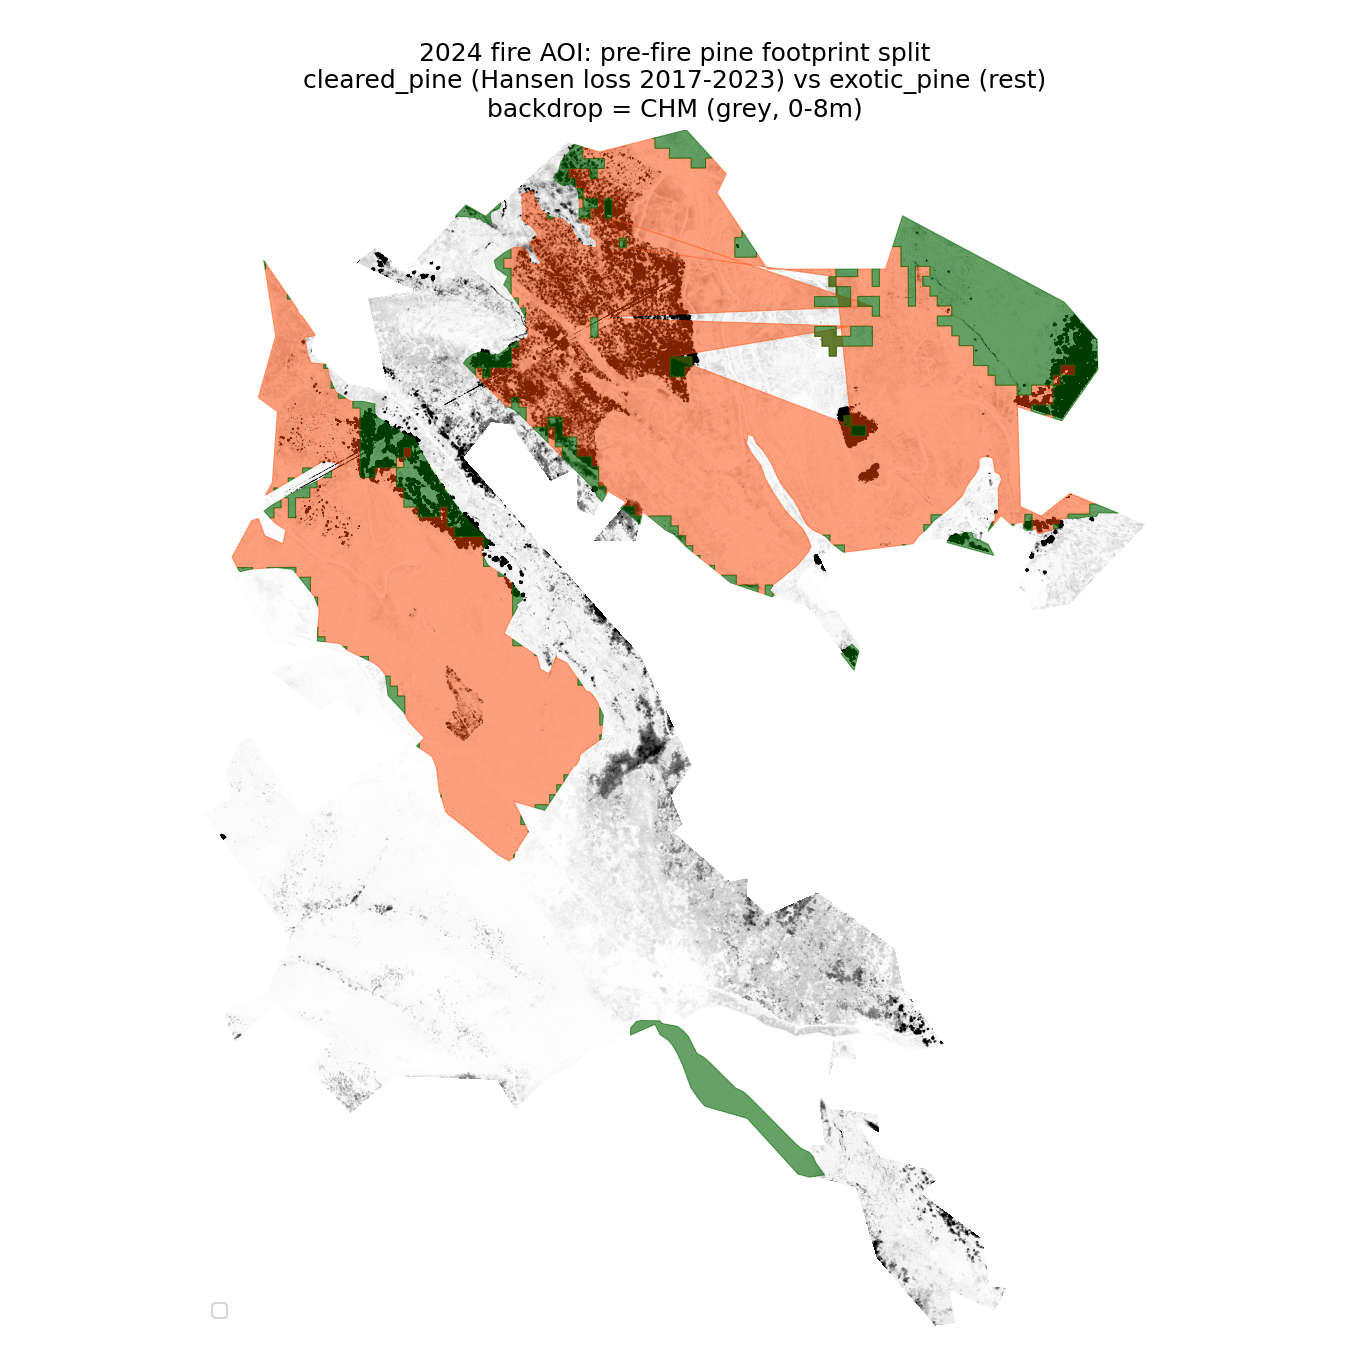
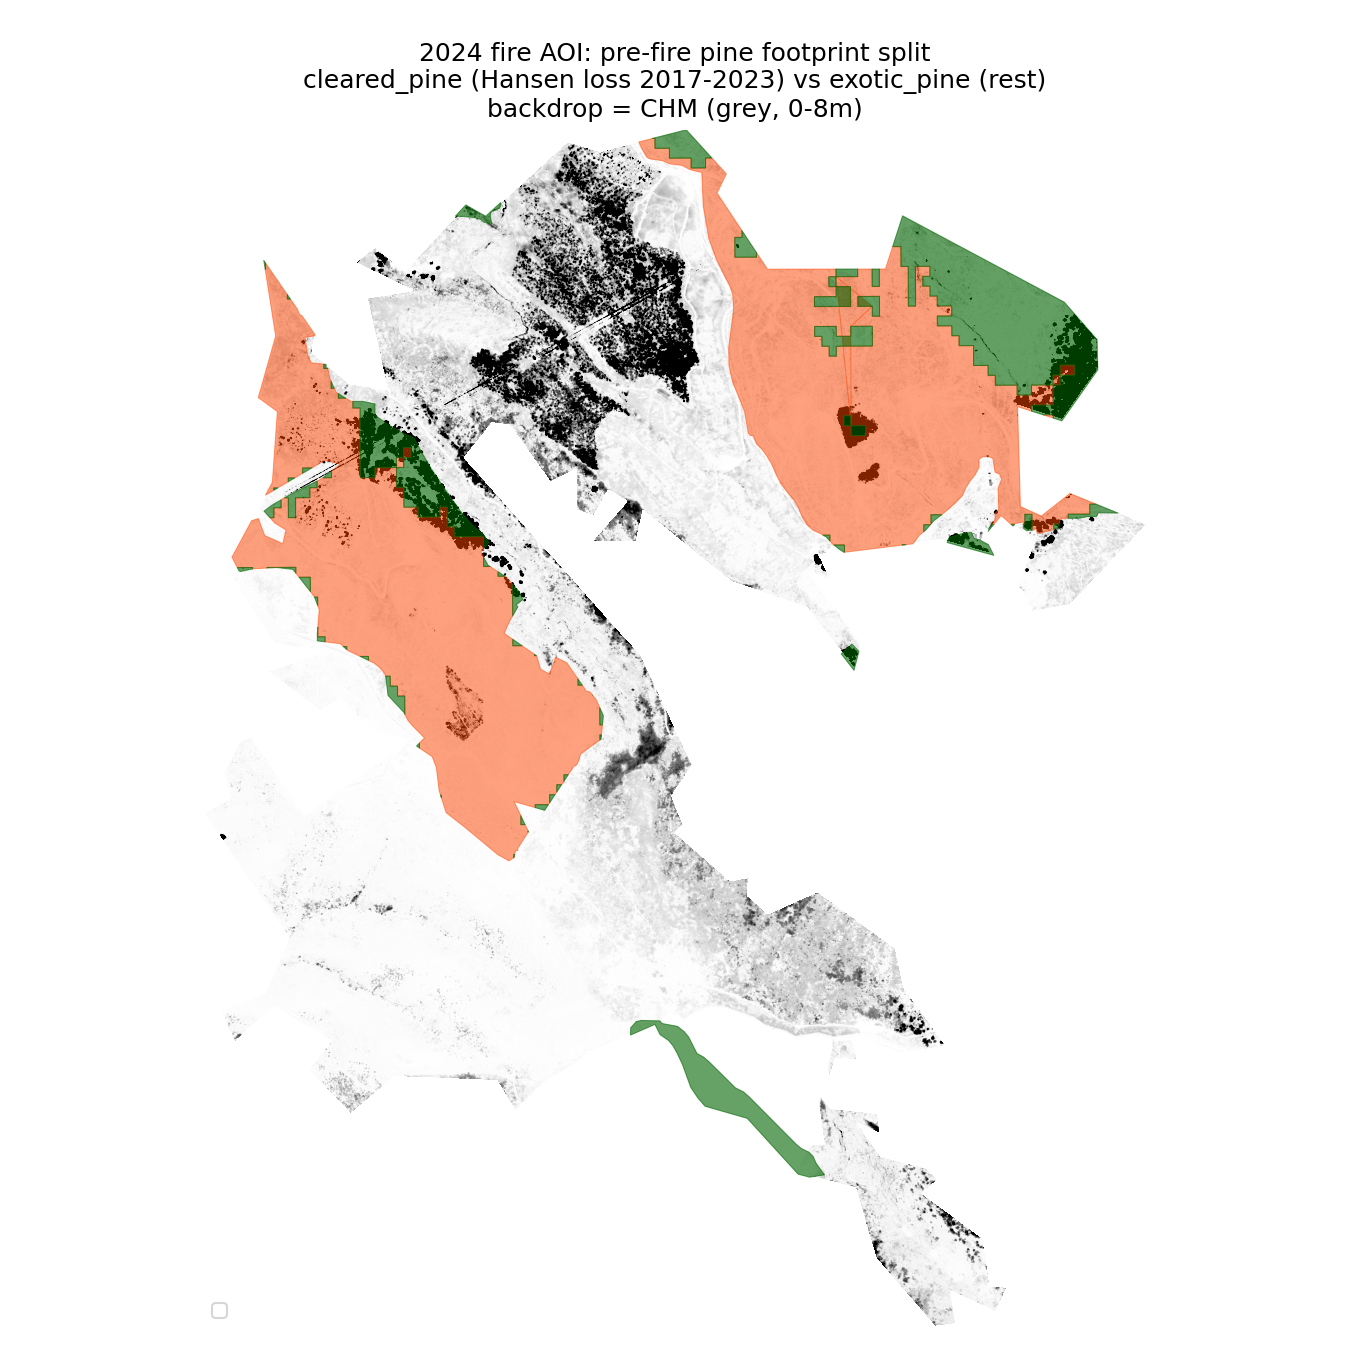
Fix cleared_pine/exotic_pine epoch mismatch; finalize 5-class 2024 scheme
07 used the 2012 pine footprint while the other 3 classes used 2023 labels,
double-counting wherever LCDB had already relabelled former pine to Gorse/
Broom by 2023 (totalled 538ha vs 467ha AOI). Redone consistently on the 2023
epoch: cleared_pine 122.8ha, exotic_pine 31.7ha. Full 5-class scheme (bare_rock
dropped - 09's slope search found only fragmented noise, largest patch 0.18ha,
no coastal-cliff exposure like 2017's AOI) now sums to exactly 467.3ha:
gorse_broom 140.7 / cleared_pine 122.8 / pasture 112.8 / broadleaf_scrub 59.3 /
exotic_pine 31.7.

Changed region(s): [[0.3422, 0.0933, 0.6533, 0.4356]]

diff --git a/2024_materials/scripts/11_fix_cleared_pine_overlap.py b/2024_materials/scripts/11_fix_cleared_pine_overlap.py
@@ -1,0 +1,81 @@
+"""
+Fix: 07_finalize_cleared_pine_2024.py used the 2012 pine footprint (225.5ha)
+for cleared_pine/exotic_pine, while 10_finalize_remaining_classes.py used 2023
+labels for the other 3 classes -> double counting wherever LCDB itself already
+relabelled former pine to Gorse/Broom etc between 2012 and 2023 (total came to
+538.4ha vs AOI 467.3ha). Redo cleared_pine/exotic_pine on the 2023 "Exotic
+Forest + Forest - Harvested" footprint (154.5ha) instead, consistent with the
+other 3 classes, then re-check the totals sum to ~AOI.
+
+Author: Claude (for Yu Zhou), 2026-09-20
+"""
+import json
+import arcpy
+
+arcpy.env.overwriteOutput = True
+wgs84 = arcpy.SpatialReference(4326)
+nztm = arcpy.SpatialReference(2193)
+COORDS_2024 = [[172.60428,-43.61764],[172.60529,-43.61721],[172.60505,-43.61653],[172.60564,-43.61569],[172.60610,-43.61558],[172.60807,-43.61769],[172.61197,-43.61568],[172.61070,-43.61552],[172.60941,-43.61457],[172.60867,-43.61489],[172.60668,-43.61380],[172.60871,-43.61330],[172.60692,-43.61304],[172.60518,-43.61099],[172.60693,-43.60866],[172.60713,-43.60674],[172.60642,-43.60636],[172.60708,-43.60469],[172.60665,-43.60264],[172.60855,-43.60466],[172.60844,-43.60515],[172.60982,-43.60600],[172.61121,-43.60618],[172.61047,-43.60368],[172.61218,-43.60349],[172.61001,-43.60273],[172.61079,-43.60230],[172.61191,-43.60294],[172.61420,-43.60116],[172.61494,-43.60147],[172.61798,-43.59947],[172.61921,-43.59974],[172.62244,-43.59915],[172.62393,-43.60035],[172.62358,-43.60087],[172.62545,-43.60294],[172.62985,-43.60295],[172.63050,-43.60151],[172.63652,-43.60387],[172.63774,-43.60489],[172.63776,-43.60571],[172.63641,-43.60709],[172.63476,-43.60670],[172.63485,-43.60941],[172.63563,-43.60967],[172.63670,-43.60906],[172.63957,-43.60992],[172.63668,-43.61210],[172.63523,-43.61228],[172.63466,-43.61155],[172.63531,-43.61042],[172.63413,-43.60965],[172.63349,-43.61021],[172.63385,-43.61073],[172.63183,-43.61032],[172.62732,-43.61071],[172.62778,-43.61144],[172.62691,-43.61119],[172.62889,-43.61307],[172.62861,-43.61383],[172.62682,-43.61214],[172.62402,-43.61144],[172.62075,-43.60950],[172.62049,-43.61034],[172.61881,-43.61032],[172.62013,-43.60924],[172.61946,-43.60894],[172.61893,-43.60963],[172.61825,-43.60948],[172.61825,-43.60837],[172.61729,-43.60873],[172.61578,-43.60716],[172.61514,-43.60710],[172.61410,-43.60803],[172.62064,-43.61339],[172.62257,-43.61640],[172.62178,-43.61724],[172.62221,-43.61801],[172.62192,-43.61823],[172.62394,-43.61953],[172.62463,-43.61944],[172.62457,-43.61992],[172.62534,-43.62044],[172.62719,-43.61983],[172.63010,-43.62138],[172.63040,-43.62245],[172.63198,-43.62404],[172.63037,-43.62425],[172.62845,-43.62382],[172.62866,-43.62441],[172.62784,-43.62437],[172.62761,-43.62491],[172.62744,-43.62443],[172.62648,-43.62665],[172.62738,-43.62670],[172.62711,-43.62524],[172.62767,-43.62572],[172.62941,-43.62586],[172.62950,-43.62644],[172.62869,-43.62614],[172.62954,-43.62704],[172.63124,-43.62735],[172.63165,-43.62768],[172.63106,-43.62804],[172.63331,-43.62925],[172.63358,-43.63055],[172.63423,-43.63059],[172.63376,-43.63127],[172.63210,-43.63070],[172.63228,-43.63158],[172.63149,-43.63166],[172.62931,-43.62981],[172.62854,-43.62789],[172.62644,-43.62749],[172.62455,-43.62597],[172.62257,-43.62555],[172.62112,-43.62341],[172.61866,-43.62418],[172.61593,-43.62584],[172.61518,-43.62494],[172.61139,-43.62482],[172.60973,-43.62583],[172.60812,-43.62461],[172.60901,-43.62383],[172.60687,-43.62291],[172.60542,-43.62387],[172.60485,-43.62299],[172.60656,-43.62251],[172.60744,-43.62103],[172.60428,-43.61764]]
+array_2024 = arcpy.Array([arcpy.Point(x, y) for x, y in COORDS_2024])
+poly = arcpy.Polygon(array_2024, wgs84).projectAs(nztm)
+arcpy.management.CopyFeatures(poly, "in_memory/aoi2024")
+
+lcdb_path = r"J:\Data\Landcover_Database_v6\lcdb-v60-land-cover-database-version-60-mainland-new-zealand.shp"
+lcdb_clip = "in_memory/lcdb_clip"
+arcpy.analysis.Clip(lcdb_path, "in_memory/aoi2024", lcdb_clip)
+
+# 2023-epoch pine-legacy footprint (consistent with the other 3 classes)
+pine_lyr = arcpy.management.MakeFeatureLayer(lcdb_clip, "pine2023_lyr",
+    where_clause="Name_2023 IN ('Exotic Forest', 'Forest - Harvested')")
+pine_2023_fc = "in_memory/pine_2023"
+arcpy.management.Dissolve(pine_lyr, pine_2023_fc)
+pine_2023_ha = sum(r[0] for r in arcpy.da.SearchCursor(pine_2023_fc, ["SHAPE@AREA"])) / 10000.0
+print(f"2023-epoch pine-legacy footprint (Exotic Forest + Forest-Harvested): {pine_2023_ha:.1f} ha")
+
+geojson_path = r"C:\Users\zhouy3d\Desktop\a3\2024_materials\hansen_loss_2017_2023.geojson"
+with open(geojson_path) as f:
+    gj = json.load(f)
+hansen_fc = "in_memory/hansen_loss"
+arcpy.management.CreateFeatureclass("in_memory", "hansen_loss", "POLYGON", spatial_reference=wgs84)
+with arcpy.da.InsertCursor(hansen_fc, ["SHAPE@"]) as cur:
+    for feat in gj["features"]:
+        geom = feat["geometry"]
+        if geom["type"] != "Polygon":
+            continue
+        array = arcpy.Array()
+        for ring in geom["coordinates"]:
+            array.add(arcpy.Array([arcpy.Point(x, y) for x, y in ring]))
+        cur.insertRow([arcpy.Polygon(array, wgs84)])
+hansen_nztm = "in_memory/hansen_nztm"
+arcpy.management.Project(hansen_fc, hansen_nztm, nztm)
+hansen_dissolved = "in_memory/hansen_dissolved"
+arcpy.management.Dissolve(hansen_nztm, hansen_dissolved)
+
+out_dir = r"C:\Users\zhouy3d\Desktop\a3\2024_materials"
+cleared_pine_fc = f"{out_dir}\\cleared_pine_2024.shp"
+arcpy.analysis.Intersect([pine_2023_fc, hansen_dissolved], "in_memory/cp_multi")
+arcpy.management.Dissolve("in_memory/cp_multi", cleared_pine_fc, multi_part="SINGLE_PART")
+cleared_ha = sum(r[0] for r in arcpy.da.SearchCursor(cleared_pine_fc, ["SHAPE@AREA"])) / 10000.0
+n_blocks = int(arcpy.management.GetCount(cleared_pine_fc)[0])
+print(f"cleared_pine (2023 pine-legacy AND Hansen loss): {cleared_ha:.1f} ha, {n_blocks} parts")
+
+exotic_pine_fc = f"{out_dir}\\exotic_pine_2024.shp"
+arcpy.analysis.Erase(pine_2023_fc, cleared_pine_fc, exotic_pine_fc)
+exotic_ha = sum(r[0] for r in arcpy.da.SearchCursor(exotic_pine_fc, ["SHAPE@AREA"])) / 10000.0
+print(f"exotic_pine (2023 pine-legacy MINUS cleared_pine): {exotic_ha:.1f} ha")
+
+# ---- final totals check across ALL 5 classes, all now on the 2023 epoch ----
+areas = {"cleared_pine": cleared_ha, "exotic_pine": exotic_ha}
+for cls, names in {
+    "gorse_broom":     ["Gorse and/or Broom", "Manuka and/or Kanuka"],
+    "pasture":         ["High Producing Exotic Grassland", "Low Producing Grassland"],
+    "broadleaf_scrub": ["Broadleaved Indigenous Hardwoods"],
+}.items():
+    fc = f"{out_dir}\\{cls}_2024.shp"
+    areas[cls] = sum(r[0] for r in arcpy.da.SearchCursor(fc, ["SHAPE@AREA"])) / 10000.0
+
+total = sum(areas.values())
+print("\n=== Final 2024 class areas (5-class scheme, consistent 2023 epoch) ===")
+for cls, ha in sorted(areas.items(), key=lambda x: -x[1]):
+    print(f"  {cls:18s} {ha:7.1f} ha  ({100*ha/total:4.1f}%)")
+print(f"  {'TOTAL classified':18s} {total:7.1f} ha  (AOI = 467.3 ha, diff = {total-467.3:+.1f} ha)")

diff --git a/2024_materials/scripts/09_bare_rock_candidates.py b/2024_materials/scripts/09_bare_rock_candidates.py
@@ -1,0 +1,81 @@
+"""
+2024 Port Hills fire - bare_rock candidate search, same method as 2017
+(US1.6: slope > 60 deg, connected-component clusters, then check each by hand).
+No aerial photo available for 2024 (checked, not worth chasing - see chat), so
+this can only get to "candidate clusters + CHM cross-check", not the full
+2017-style visual confirmation. Reporting that honestly rather than treating
+these as confirmed bare-rock points.
+
+Author: Claude (for Yu Zhou), 2026-09-20
+"""
+import arcpy
+import numpy as np
+from scipy import ndimage
+
+arcpy.CheckOutExtension("Spatial")
+arcpy.env.overwriteOutput = True
+
+wgs84 = arcpy.SpatialReference(4326)
+nztm = arcpy.SpatialReference(2193)
+COORDS_2024 = [[172.60428,-43.61764],[172.60529,-43.61721],[172.60505,-43.61653],[172.60564,-43.61569],[172.60610,-43.61558],[172.60807,-43.61769],[172.61197,-43.61568],[172.61070,-43.61552],[172.60941,-43.61457],[172.60867,-43.61489],[172.60668,-43.61380],[172.60871,-43.61330],[172.60692,-43.61304],[172.60518,-43.61099],[172.60693,-43.60866],[172.60713,-43.60674],[172.60642,-43.60636],[172.60708,-43.60469],[172.60665,-43.60264],[172.60855,-43.60466],[172.60844,-43.60515],[172.60982,-43.60600],[172.61121,-43.60618],[172.61047,-43.60368],[172.61218,-43.60349],[172.61001,-43.60273],[172.61079,-43.60230],[172.61191,-43.60294],[172.61420,-43.60116],[172.61494,-43.60147],[172.61798,-43.59947],[172.61921,-43.59974],[172.62244,-43.59915],[172.62393,-43.60035],[172.62358,-43.60087],[172.62545,-43.60294],[172.62985,-43.60295],[172.63050,-43.60151],[172.63652,-43.60387],[172.63774,-43.60489],[172.63776,-43.60571],[172.63641,-43.60709],[172.63476,-43.60670],[172.63485,-43.60941],[172.63563,-43.60967],[172.63670,-43.60906],[172.63957,-43.60992],[172.63668,-43.61210],[172.63523,-43.61228],[172.63466,-43.61155],[172.63531,-43.61042],[172.63413,-43.60965],[172.63349,-43.61021],[172.63385,-43.61073],[172.63183,-43.61032],[172.62732,-43.61071],[172.62778,-43.61144],[172.62691,-43.61119],[172.62889,-43.61307],[172.62861,-43.61383],[172.62682,-43.61214],[172.62402,-43.61144],[172.62075,-43.60950],[172.62049,-43.61034],[172.61881,-43.61032],[172.62013,-43.60924],[172.61946,-43.60894],[172.61893,-43.60963],[172.61825,-43.60948],[172.61825,-43.60837],[172.61729,-43.60873],[172.61578,-43.60716],[172.61514,-43.60710],[172.61410,-43.60803],[172.62064,-43.61339],[172.62257,-43.61640],[172.62178,-43.61724],[172.62221,-43.61801],[172.62192,-43.61823],[172.62394,-43.61953],[172.62463,-43.61944],[172.62457,-43.61992],[172.62534,-43.62044],[172.62719,-43.61983],[172.63010,-43.62138],[172.63040,-43.62245],[172.63198,-43.62404],[172.63037,-43.62425],[172.62845,-43.62382],[172.62866,-43.62441],[172.62784,-43.62437],[172.62761,-43.62491],[172.62744,-43.62443],[172.62648,-43.62665],[172.62738,-43.62670],[172.62711,-43.62524],[172.62767,-43.62572],[172.62941,-43.62586],[172.62950,-43.62644],[172.62869,-43.62614],[172.62954,-43.62704],[172.63124,-43.62735],[172.63165,-43.62768],[172.63106,-43.62804],[172.63331,-43.62925],[172.63358,-43.63055],[172.63423,-43.63059],[172.63376,-43.63127],[172.63210,-43.63070],[172.63228,-43.63158],[172.63149,-43.63166],[172.62931,-43.62981],[172.62854,-43.62789],[172.62644,-43.62749],[172.62455,-43.62597],[172.62257,-43.62555],[172.62112,-43.62341],[172.61866,-43.62418],[172.61593,-43.62584],[172.61518,-43.62494],[172.61139,-43.62482],[172.60973,-43.62583],[172.60812,-43.62461],[172.60901,-43.62383],[172.60687,-43.62291],[172.60542,-43.62387],[172.60485,-43.62299],[172.60656,-43.62251],[172.60744,-43.62103],[172.60428,-43.61764]]
+array_2024 = arcpy.Array([arcpy.Point(x, y) for x, y in COORDS_2024])
+poly = arcpy.Polygon(array_2024, wgs84).projectAs(nztm)
+arcpy.management.CopyFeatures(poly, "in_memory/aoi2024")
+
+dem = r"J:\Data\Digital_Elevation_Models\Christchurch_LiDAR_2021-2022\CHC_LiDAR_2020_21_DEM.tif"
+dem_clip = arcpy.sa.ExtractByMask(dem, "in_memory/aoi2024")
+slope = arcpy.sa.Slope(dem_clip, "DEGREE")
+slope_path = r"C:\Users\zhouy3d\Desktop\a3\2024_materials\figures\Slope_2024_AOI.tif"
+slope.save(slope_path)
+
+chm_capped_path = r"C:\Users\zhouy3d\Desktop\a3\2024_materials\figures\CHM_2024_AOI_capped.tif"
+slope_ras = arcpy.Raster(slope_path)
+extent = slope_ras.extent
+cell = slope_ras.meanCellWidth
+
+slope_arr = arcpy.RasterToNumPyArray(slope_ras, nodata_to_value=np.nan)
+chm_arr = arcpy.RasterToNumPyArray(chm_capped_path, nodata_to_value=np.nan)
+# CHM and slope grids may differ by a row/col from independent ExtractByMask calls; crop to common shape
+h = min(slope_arr.shape[0], chm_arr.shape[0]); w = min(slope_arr.shape[1], chm_arr.shape[1])
+slope_arr = slope_arr[:h, :w]; chm_arr = chm_arr[:h, :w]
+
+mask = slope_arr > 60
+labels, n = ndimage.label(mask)
+print(f"Found {n} connected clusters at slope > 60 deg")
+
+results = []
+for i in range(1, n + 1):
+    ys, xs = np.where(labels == i)
+    npix = len(ys)
+    if npix < 4:   # drop single/double-pixel speckle, same spirit as 2017's MIN_PIX filtering
+        continue
+    cy, cx = ys.mean(), xs.mean()
+    # convert array row/col -> map coords (row 0 = top = YMax)
+    map_x = extent.XMin + (cx + 0.5) * cell
+    map_y = extent.YMax - (cy + 0.5) * cell
+    chm_vals = chm_arr[ys, xs]
+    chm_median = np.nanmedian(chm_vals)
+    # shape check: linear features (DEM seams / tracks) have high bbox aspect ratio
+    # and low fill ratio; blobby real outcrops are closer to square/round
+    h_extent = ys.max() - ys.min() + 1
+    w_extent = xs.max() - xs.min() + 1
+    bbox_area = h_extent * w_extent
+    fill_ratio = npix / bbox_area
+    aspect = max(h_extent, w_extent) / max(1, min(h_extent, w_extent))
+    results.append((i, npix, npix * cell * cell / 10000, map_x, map_y, chm_median, aspect, fill_ratio))
+
+results.sort(key=lambda r: -r[1])
+print(f"\n{len(results)} clusters with >=4 pixels:")
+print(f"{'id':>3} {'pix':>5} {'ha':>6} {'NZTM_X':>10} {'NZTM_Y':>10} {'CHM_med':>8} {'aspect':>7} {'fill':>5}  guess")
+for r in results:
+    i, npix, ha, mx, my, chm_med, aspect, fill = r
+    # heuristic: real rock outcrop = blobby (low aspect, higher fill) + near-zero CHM
+    # DEM-seam/track artifact = very linear (high aspect, low fill)
+    guess = "likely_artifact(linear)" if aspect > 4 and fill < 0.35 else "candidate_real"
+    print(f"{i:3d} {npix:5d} {ha:6.3f} {mx:10.1f} {my:10.1f} {chm_med:8.2f} {aspect:7.1f} {fill:5.2f}  {guess}")
+
+print("\nTotal slope>60 area (all clusters incl. <4px speckle):",
+      f"{np.sum(mask)*cell*cell/10000:.2f} ha")
+print("NOTE: no aerial photo available for 2024 to visually confirm these -")
+print("the aspect/fill-ratio heuristic is a proxy, not a substitute for the")
+print("2017 project's actual photo-interpretation pass. Report as candidates only.")

diff --git a/2024_materials/scripts/10_finalize_remaining_classes.py b/2024_materials/scripts/10_finalize_remaining_classes.py
@@ -1,0 +1,55 @@
+"""
+2024 Port Hills fire - finalize the 3 remaining classes (no ambiguity, straight
+LCDB Name_2023 relabel, same grouping logic as 2017's US1.4 table):
+  gorse_broom     <- Gorse and/or Broom + Manuka and/or Kanuka
+  pasture         <- High Producing Exotic Grassland + Low Producing Grassland
+  broadleaf_scrub <- Broadleaved Indigenous Hardwoods
+bare_rock dropped (US1.6-equivalent slope search found no meaningful bare-rock
+footprint in this AOI - largest candidate patch 0.18ha, 520 mostly-noise
+fragments - see chat/09_bare_rock_candidates.py).
+
+Final 2024 scheme: 5 classes (pasture/gorse_broom/broadleaf_scrub/exotic_pine/
+cleared_pine) - all with real, reasonably-contiguous polygons this time,
+unlike 2017 where cleared_pine (6.7ha/4 blocks) was too fragmented to model
+and got used as a mask instead.
+
+Author: Claude (for Yu Zhou), 2026-09-20
+"""
+import arcpy
+
+arcpy.env.overwriteOutput = True
+wgs84 = arcpy.SpatialReference(4326)
+nztm = arcpy.SpatialReference(2193)
+COORDS_2024 = [[172.60428,-43.61764],[172.60529,-43.61721],[172.60505,-43.61653],[172.60564,-43.61569],[172.60610,-43.61558],[172.60807,-43.61769],[172.61197,-43.61568],[172.61070,-43.61552],[172.60941,-43.61457],[172.60867,-43.61489],[172.60668,-43.61380],[172.60871,-43.61330],[172.60692,-43.61304],[172.60518,-43.61099],[172.60693,-43.60866],[172.60713,-43.60674],[172.60642,-43.60636],[172.60708,-43.60469],[172.60665,-43.60264],[172.60855,-43.60466],[172.60844,-43.60515],[172.60982,-43.60600],[172.61121,-43.60618],[172.61047,-43.60368],[172.61218,-43.60349],[172.61001,-43.60273],[172.61079,-43.60230],[172.61191,-43.60294],[172.61420,-43.60116],[172.61494,-43.60147],[172.61798,-43.59947],[172.61921,-43.59974],[172.62244,-43.59915],[172.62393,-43.60035],[172.62358,-43.60087],[172.62545,-43.60294],[172.62985,-43.60295],[172.63050,-43.60151],[172.63652,-43.60387],[172.63774,-43.60489],[172.63776,-43.60571],[172.63641,-43.60709],[172.63476,-43.60670],[172.63485,-43.60941],[172.63563,-43.60967],[172.63670,-43.60906],[172.63957,-43.60992],[172.63668,-43.61210],[172.63523,-43.61228],[172.63466,-43.61155],[172.63531,-43.61042],[172.63413,-43.60965],[172.63349,-43.61021],[172.63385,-43.61073],[172.63183,-43.61032],[172.62732,-43.61071],[172.62778,-43.61144],[172.62691,-43.61119],[172.62889,-43.61307],[172.62861,-43.61383],[172.62682,-43.61214],[172.62402,-43.61144],[172.62075,-43.60950],[172.62049,-43.61034],[172.61881,-43.61032],[172.62013,-43.60924],[172.61946,-43.60894],[172.61893,-43.60963],[172.61825,-43.60948],[172.61825,-43.60837],[172.61729,-43.60873],[172.61578,-43.60716],[172.61514,-43.60710],[172.61410,-43.60803],[172.62064,-43.61339],[172.62257,-43.61640],[172.62178,-43.61724],[172.62221,-43.61801],[172.62192,-43.61823],[172.62394,-43.61953],[172.62463,-43.61944],[172.62457,-43.61992],[172.62534,-43.62044],[172.62719,-43.61983],[172.63010,-43.62138],[172.63040,-43.62245],[172.63198,-43.62404],[172.63037,-43.62425],[172.62845,-43.62382],[172.62866,-43.62441],[172.62784,-43.62437],[172.62761,-43.62491],[172.62744,-43.62443],[172.62648,-43.62665],[172.62738,-43.62670],[172.62711,-43.62524],[172.62767,-43.62572],[172.62941,-43.62586],[172.62950,-43.62644],[172.62869,-43.62614],[172.62954,-43.62704],[172.63124,-43.62735],[172.63165,-43.62768],[172.63106,-43.62804],[172.63331,-43.62925],[172.63358,-43.63055],[172.63423,-43.63059],[172.63376,-43.63127],[172.63210,-43.63070],[172.63228,-43.63158],[172.63149,-43.63166],[172.62931,-43.62981],[172.62854,-43.62789],[172.62644,-43.62749],[172.62455,-43.62597],[172.62257,-43.62555],[172.62112,-43.62341],[172.61866,-43.62418],[172.61593,-43.62584],[172.61518,-43.62494],[172.61139,-43.62482],[172.60973,-43.62583],[172.60812,-43.62461],[172.60901,-43.62383],[172.60687,-43.62291],[172.60542,-43.62387],[172.60485,-43.62299],[172.60656,-43.62251],[172.60744,-43.62103],[172.60428,-43.61764]]
+array_2024 = arcpy.Array([arcpy.Point(x, y) for x, y in COORDS_2024])
+poly = arcpy.Polygon(array_2024, wgs84).projectAs(nztm)
+arcpy.management.CopyFeatures(poly, "in_memory/aoi2024")
+
+lcdb_path = r"J:\Data\Landcover_Database_v6\lcdb-v60-land-cover-database-version-60-mainland-new-zealand.shp"
+lcdb_clip = "in_memory/lcdb_clip_2023"
+arcpy.analysis.Clip(lcdb_path, "in_memory/aoi2024", lcdb_clip)
+
+GROUPS = {
+    "gorse_broom":     ["Gorse and/or Broom", "Manuka and/or Kanuka"],
+    "pasture":         ["High Producing Exotic Grassland", "Low Producing Grassland"],
+    "broadleaf_scrub": ["Broadleaved Indigenous Hardwoods"],
+}
+
+out_dir = r"C:\Users\zhouy3d\Desktop\a3\2024_materials"
+summary = []
+for cls, names in GROUPS.items():
+    clause = " OR ".join(f"Name_2023 = '{n}'" for n in names)
+    lyr = arcpy.management.MakeFeatureLayer(lcdb_clip, f"{cls}_lyr", where_clause=clause)
+    out_fc = f"{out_dir}\\{cls}_2024.shp"
+    arcpy.management.Dissolve(lyr, out_fc)
+    ha = sum(r[0] for r in arcpy.da.SearchCursor(out_fc, ["SHAPE@AREA"])) / 10000.0
+    summary.append((cls, ha))
+    print(f"{cls:18s} {ha:7.1f} ha  -> {out_fc}")
+
+# carry over the already-finalized ones for a complete picture
+already = [("exotic_pine", 36.7), ("cleared_pine", 188.9)]
+print("\n=== Final 2024 class areas (5-class scheme, bare_rock dropped) ===")
+total = sum(ha for _, ha in summary + already)
+for cls, ha in sorted(summary + already, key=lambda x: -x[1]):
+    print(f"  {cls:18s} {ha:7.1f} ha  ({100*ha/total:4.1f}%)")
+print(f"  {'TOTAL classified':18s} {total:7.1f} ha  (AOI = 467.3 ha)")
